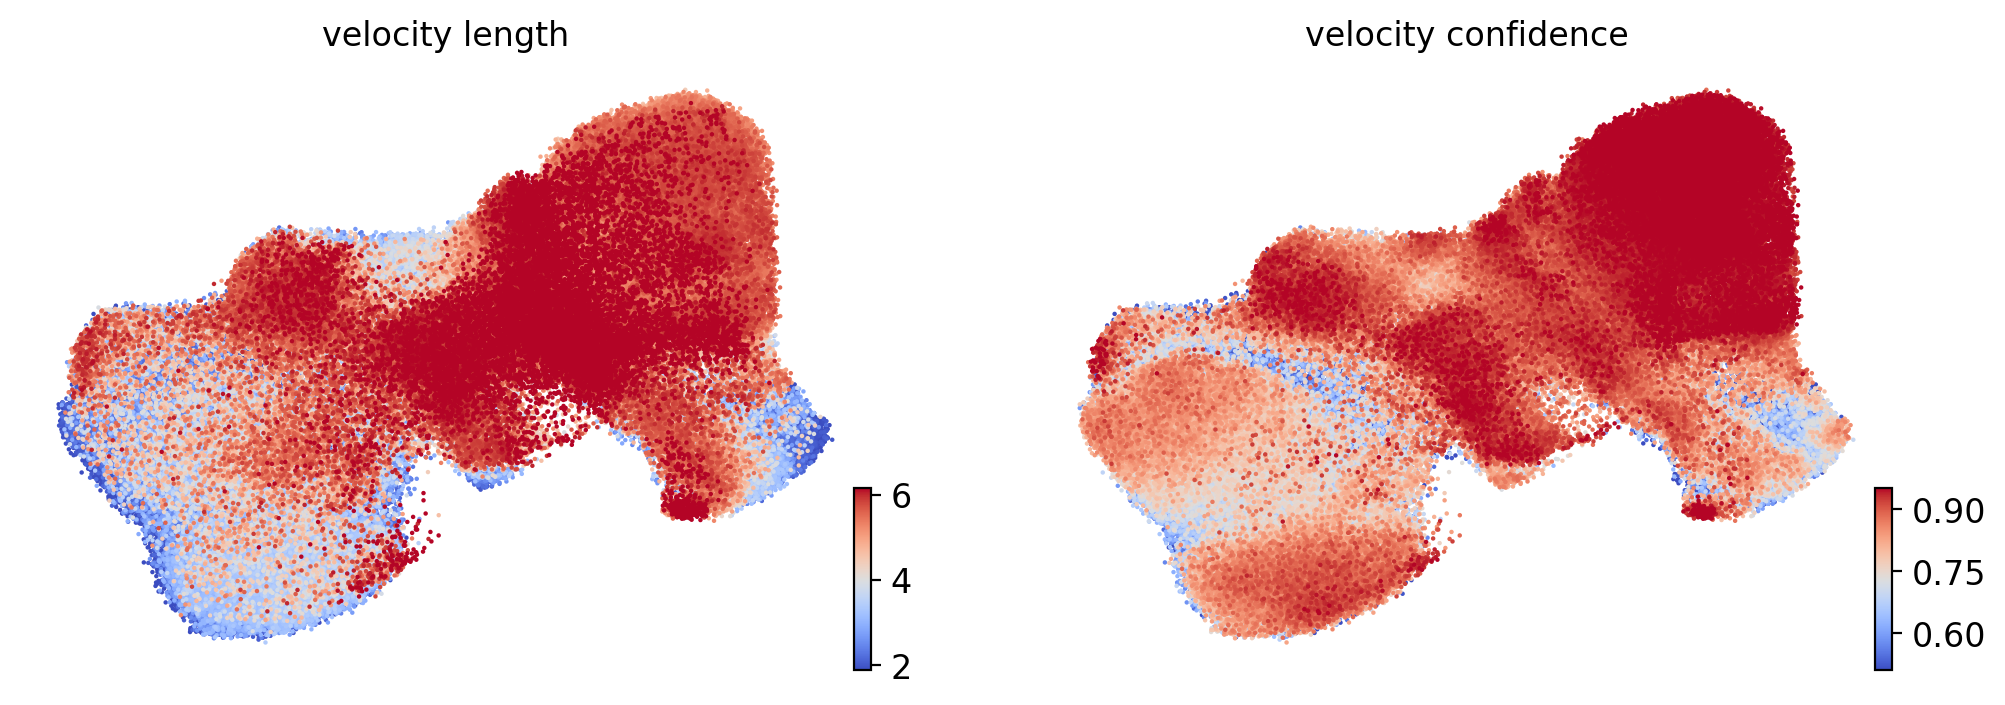
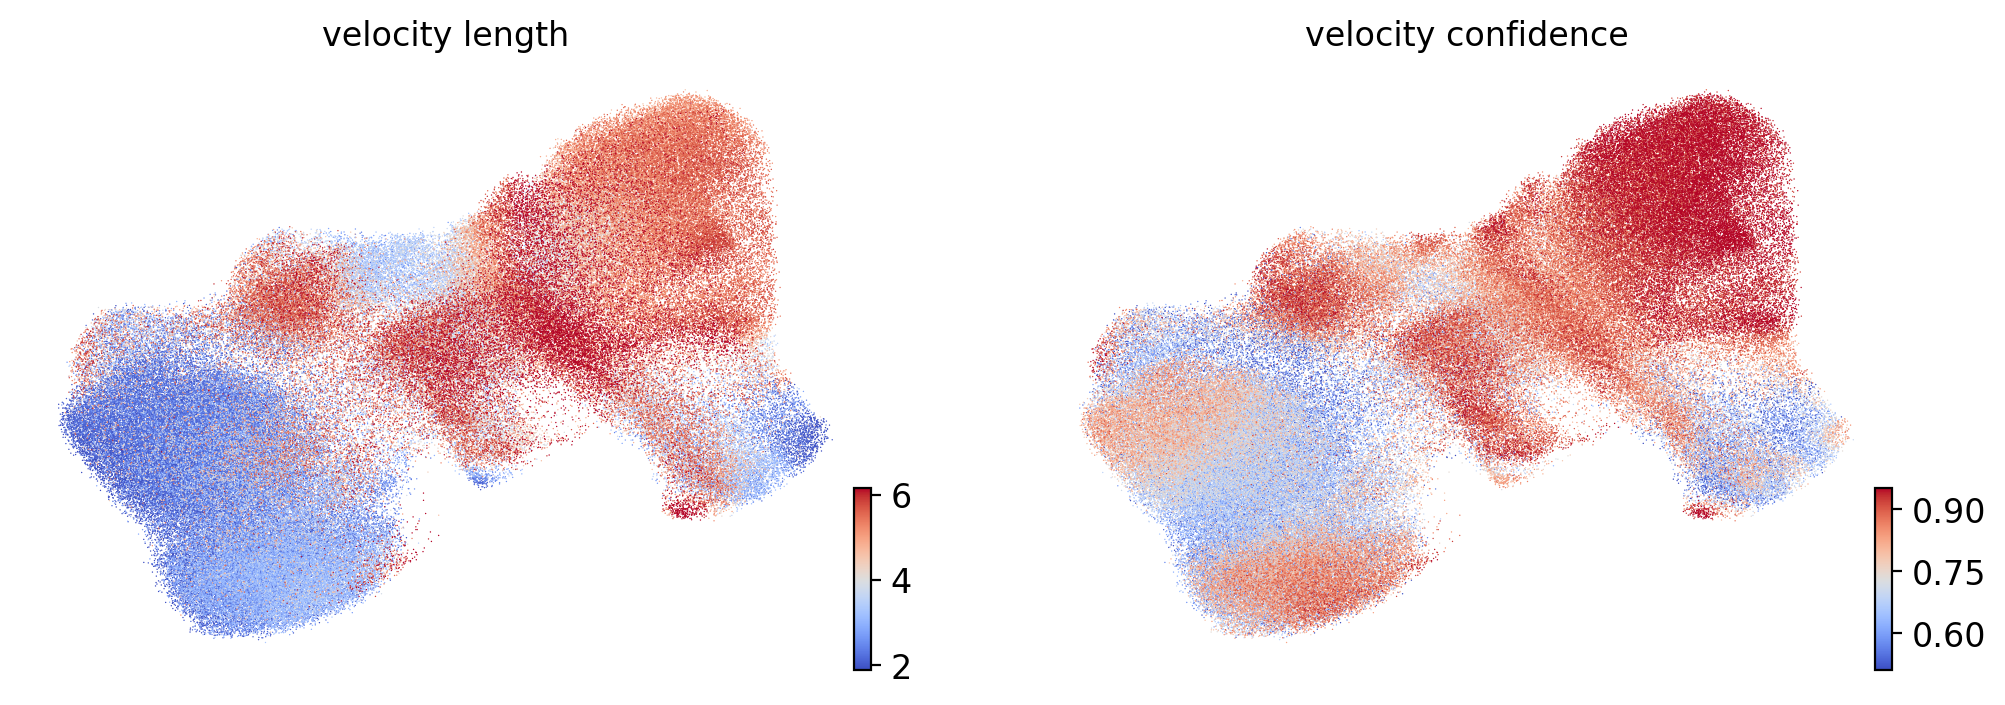
change dot size

diff --git a/intepret_velocity.py b/intepret_velocity.py
@@ -87,7 +87,7 @@ elif args.plot == 'top_genes':
 elif args.plot == 'speed_coherence':
     scv.tl.velocity_confidence(adata)
     keys = 'velocity_length', 'velocity_confidence'
-    scv.pl.scatter(adata, c=keys, cmap='coolwarm', perc=[5, 95], dpi=200,
+    scv.pl.scatter(adata, c=keys, cmap='coolwarm', perc=[5, 95], dpi=200, size=1,
         save='{}_{}.png'.format(args.subset, args.plot))
     df = adata.obs.groupby('type')[keys].mean().T
     df.style.background_gradient(cmap='coolwarm', axis=1)
